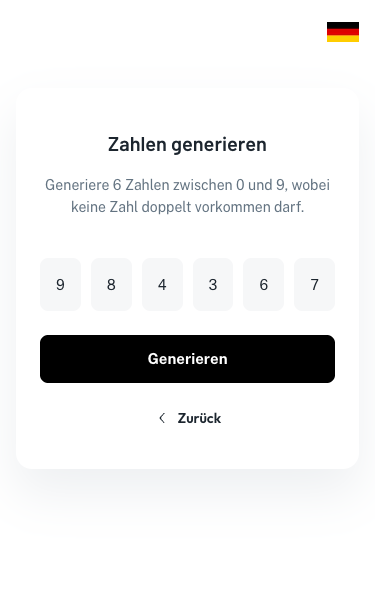
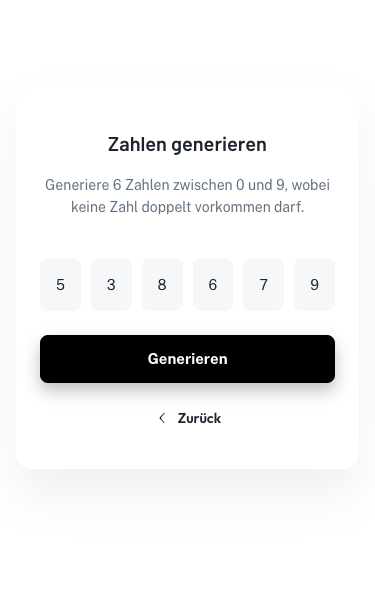
refactor: remove unused components and clean up header layout

diff --git a/src/components/icons/icons.tsx b/src/components/icons/icons.tsx
@@ -55,26 +55,6 @@ export function EyeIcon(props: IconProps) {
     </Icon>
   );
 }
-
-export function SettingsIcon(props: IconProps) {
-  return (
-    <Icon {...props}>
-      <path
-        transform="translate(1.822 1.25)"
-        fillRule="evenodd"
-        clipRule="evenodd"
-        d="M10.178 7C9.184 7 8.23 7.395 7.527 8.098C6.824 8.802 6.428 9.755 6.428 10.75C6.428 11.745 6.824 12.698 7.527 13.402C8.23 14.105 9.184 14.5 10.178 14.5C11.173 14.5 12.127 14.105 12.83 13.402C13.533 12.698 13.928 11.745 13.928 10.75C13.928 9.755 13.533 8.802 12.83 8.098C12.127 7.395 11.173 7 10.178 7ZM7.928 10.75C7.928 10.153 8.166 9.581 8.587 9.159C9.009 8.737 9.582 8.5 10.178 8.5C10.775 8.5 11.348 8.737 11.769 9.159C12.191 9.581 12.428 10.153 12.428 10.75C12.428 11.347 12.191 11.919 11.769 12.341C11.348 12.763 10.775 13 10.178 13C9.582 13 9.009 12.763 8.587 12.341C8.166 11.919 7.928 11.347 7.928 10.75Z"
-      />
-      <path
-        transform="translate(1.822 1.25)"
-        fillRule="evenodd"
-        clipRule="evenodd"
-        d="M10.153 0C9.708 0 9.337 0 9.033 0.02C8.723 0.033 8.416 0.097 8.126 0.21C7.793 0.348 7.489 0.551 7.234 0.806C6.978 1.061 6.776 1.364 6.637 1.698C6.492 2.048 6.453 2.418 6.437 2.82C6.436 2.967 6.397 3.111 6.324 3.239C6.252 3.367 6.148 3.474 6.022 3.551C5.893 3.622 5.748 3.658 5.601 3.657C5.454 3.656 5.31 3.618 5.181 3.546C4.825 3.358 4.485 3.207 4.109 3.157C3.751 3.11 3.388 3.134 3.039 3.227C2.69 3.321 2.363 3.482 2.076 3.702C1.834 3.897 1.626 4.13 1.459 4.393C1.289 4.647 1.103 4.968 0.881 5.353L0.856 5.397C0.633 5.782 0.448 6.103 0.314 6.377C0.174 6.663 0.064 6.945 0.024 7.257C-0.071 7.98 0.125 8.711 0.568 9.29C0.799 9.591 1.1 9.81 1.44 10.024C1.567 10.099 1.673 10.205 1.747 10.332C1.822 10.459 1.863 10.603 1.866 10.75C1.863 10.897 1.822 11.041 1.747 11.168C1.673 11.295 1.567 11.401 1.44 11.476C1.1 11.69 0.8 11.909 0.568 12.21C0.349 12.496 0.187 12.823 0.094 13.172C0 13.521 -0.024 13.885 0.023 14.243C0.064 14.555 0.173 14.837 0.313 15.123C0.448 15.397 0.633 15.718 0.856 16.103L0.881 16.147C1.103 16.532 1.289 16.853 1.459 17.107C1.636 17.37 1.826 17.607 2.076 17.797C2.363 18.017 2.69 18.179 3.039 18.272C3.388 18.366 3.751 18.39 4.109 18.343C4.485 18.293 4.825 18.143 5.181 17.954C5.31 17.882 5.454 17.844 5.601 17.843C5.748 17.842 5.893 17.879 6.021 17.949C6.148 18.025 6.252 18.132 6.325 18.26C6.398 18.388 6.437 18.533 6.438 18.68C6.453 19.082 6.492 19.452 6.638 19.802C6.777 20.136 6.979 20.439 7.234 20.695C7.49 20.95 7.793 21.153 8.126 21.291C8.416 21.411 8.716 21.458 9.033 21.479C9.337 21.5 9.708 21.5 10.153 21.5L10.203 21.5C10.648 21.5 11.019 21.5 11.323 21.48C11.641 21.458 11.94 21.411 12.23 21.29C12.564 21.152 12.868 20.949 13.123 20.694C13.378 20.439 13.581 20.136 13.719 19.802C13.864 19.452 13.903 19.082 13.919 18.68C13.921 18.533 13.96 18.388 14.032 18.26C14.105 18.132 14.209 18.025 14.334 17.948C14.464 17.878 14.609 17.841 14.756 17.842C14.903 17.843 15.047 17.882 15.175 17.954C15.531 18.142 15.871 18.293 16.247 18.342C16.97 18.437 17.702 18.242 18.28 17.798C18.53 17.606 18.72 17.37 18.897 17.107C19.067 16.853 19.253 16.532 19.475 16.147L19.5 16.103C19.723 15.718 19.908 15.397 20.042 15.123C20.182 14.837 20.292 14.554 20.332 14.243C20.428 13.52 20.232 12.789 19.788 12.21C19.557 11.909 19.256 11.69 18.916 11.476C18.79 11.401 18.684 11.295 18.61 11.168C18.535 11.041 18.494 10.897 18.49 10.75C18.49 10.472 18.642 10.196 18.916 10.024C19.256 9.81 19.556 9.591 19.788 9.29C20.008 9.004 20.17 8.677 20.263 8.328C20.357 7.979 20.381 7.615 20.333 7.257C20.286 6.95 20.188 6.652 20.043 6.377C19.873 6.045 19.692 5.718 19.5 5.397L19.475 5.353C19.293 5.027 19.1 4.707 18.897 4.393C18.731 4.131 18.523 3.897 18.28 3.703C17.994 3.483 17.667 3.321 17.318 3.228C16.969 3.134 16.606 3.11 16.247 3.157C15.871 3.207 15.531 3.357 15.175 3.546C15.047 3.618 14.903 3.656 14.756 3.657C14.609 3.658 14.464 3.621 14.335 3.551C14.21 3.475 14.105 3.367 14.032 3.239C13.96 3.112 13.92 2.967 13.918 2.82C13.903 2.418 13.864 2.048 13.718 1.698C13.58 1.364 13.378 1.061 13.123 0.805C12.867 0.55 12.564 0.347 12.23 0.209C11.94 0.089 11.64 0.042 11.323 0.021C11.019 0 10.648 0 10.203 0L10.153 0ZM8.7 1.595C8.777 1.563 8.894 1.534 9.135 1.517C9.382 1.5 9.702 1.5 10.178 1.5C10.654 1.5 10.974 1.5 11.221 1.517C11.462 1.534 11.579 1.563 11.656 1.595C11.963 1.722 12.206 1.965 12.333 2.272C12.373 2.368 12.406 2.519 12.419 2.876C12.449 3.668 12.858 4.431 13.584 4.85C14.31 5.27 15.175 5.242 15.876 4.872C16.192 4.705 16.339 4.658 16.443 4.645C16.772 4.602 17.104 4.69 17.367 4.892C17.433 4.943 17.517 5.03 17.652 5.23C17.791 5.436 17.951 5.713 18.189 6.125C18.427 6.537 18.586 6.815 18.695 7.037C18.802 7.254 18.835 7.37 18.845 7.453C18.889 7.782 18.8 8.114 18.598 8.377C18.534 8.46 18.42 8.564 18.118 8.754C17.446 9.176 16.99 9.912 16.99 10.75C16.99 11.588 17.446 12.324 18.118 12.746C18.42 12.936 18.534 13.04 18.598 13.123C18.8 13.386 18.888 13.718 18.845 14.047C18.835 14.13 18.801 14.247 18.695 14.463C18.586 14.686 18.427 14.963 18.189 15.375C17.951 15.787 17.79 16.064 17.652 16.27C17.517 16.47 17.433 16.557 17.367 16.608C17.104 16.81 16.772 16.898 16.443 16.855C16.339 16.842 16.193 16.795 15.876 16.628C15.176 16.258 14.31 16.23 13.584 16.649C12.858 17.069 12.449 17.832 12.419 18.624C12.406 18.981 12.373 19.132 12.333 19.228C12.271 19.38 12.179 19.518 12.062 19.634C11.946 19.75 11.808 19.842 11.656 19.905C11.579 19.937 11.462 19.966 11.221 19.983C10.974 20 10.654 20 10.178 20C9.702 20 9.382 20 9.135 19.983C8.894 19.966 8.777 19.937 8.7 19.905C8.549 19.842 8.411 19.75 8.295 19.634C8.178 19.518 8.086 19.38 8.023 19.228C7.983 19.132 7.95 18.981 7.937 18.624C7.907 17.832 7.498 17.069 6.772 16.65C6.046 16.23 5.181 16.258 4.48 16.628C4.164 16.795 4.017 16.842 3.913 16.855C3.585 16.898 3.253 16.81 2.989 16.608C2.923 16.557 2.839 16.47 2.704 16.27C2.516 15.977 2.337 15.679 2.167 15.375C1.929 14.963 1.77 14.685 1.661 14.463C1.554 14.246 1.521 14.13 1.511 14.047C1.468 13.718 1.557 13.386 1.758 13.123C1.822 13.04 1.936 12.936 2.238 12.746C2.91 12.324 3.366 11.588 3.366 10.75C3.366 9.912 2.91 9.176 2.238 8.754C1.936 8.564 1.822 8.46 1.758 8.377C1.557 8.114 1.468 7.782 1.511 7.453C1.521 7.37 1.555 7.253 1.661 7.037C1.77 6.814 1.929 6.537 2.167 6.125C2.405 5.713 2.566 5.436 2.704 5.23C2.839 5.03 2.923 4.943 2.989 4.892C3.253 4.69 3.585 4.602 3.913 4.645C4.017 4.658 4.163 4.705 4.48 4.872C5.18 5.242 6.046 5.27 6.772 4.85C7.498 4.431 7.907 3.668 7.937 2.876C7.95 2.519 7.983 2.368 8.023 2.272C8.15 1.965 8.393 1.722 8.7 1.595Z"
-      />
-    </Icon>
-  );
-}
-
 export function ArrowLeftIcon(props: IconProps) {
   return (
     <Icon {...props}>

diff --git a/e2e/figma-layout.spec.ts b/e2e/figma-layout.spec.ts
@@ -45,8 +45,6 @@ const screens: {
       { name: "eye button", locate: (p) => p.getByRole("button", { name: "Show password" }), expected: { x: 850, y: 522.5, width: 40, height: 40 } },
       { name: "generate numbers row", locate: (p) => p.getByRole("link", { name: "Generate numbers" }).locator(".."), expected: { x: 550, y: 593, width: 340, height: 22 } },
       { name: "sign in button", locate: (p) => p.getByRole("button", { name: "Sign in" }), expected: { x: 550, y: 639, width: 340, height: 48 } },
-      { name: "flag button", locate: (p) => p.getByRole("button", { name: "Language: English" }), expected: { x: 1376, y: 16, width: 40, height: 40 } },
-      { name: "flag image", locate: (p) => p.locator("header img"), expected: { x: 1382.17, y: 26, width: 27.65, height: 20 } },
     ],
   },
   {
@@ -62,8 +60,6 @@ const screens: {
       { name: "last digit box", locate: (p) => p.getByTestId("digit-box").last(), expected: { x: 841.67, y: 494.5, width: 48.33, height: 53 } },
       { name: "generate button", locate: (p) => p.getByRole("button", { name: "Generieren" }), expected: { x: 550, y: 571.5, width: 340, height: 48 } },
       { name: "back link", locate: (p) => p.getByRole("link", { name: "Zurück" }), expected: { x: 684.5, y: 643.5, width: 71, height: 22 }, outfit: true },
-      { name: "flag", locate: (p) => p.getByRole("img", { name: "Deutsch" }), expected: { x: 1334, y: 26, width: 34, height: 20 } },
-      { name: "settings button", locate: (p) => p.getByRole("button", { name: "Einstellungen" }), expected: { x: 1376, y: 16, width: 40, height: 40 } },
     ],
   },
   {
@@ -72,7 +68,6 @@ const screens: {
     viewport: { width: 375, height: 800 },
     checks: [
       { name: "header", locate: (p) => p.locator("header"), expected: { x: 0, y: 0, width: 375, height: 64 } },
-      { name: "flag button", locate: (p) => p.getByRole("button", { name: "Language: English" }), expected: { x: 319, y: 12, width: 40, height: 40 } },
       { name: "card", locate: (p) => p.locator("section"), expected: { x: 16, y: 88, width: 343, height: 424 } },
       { name: "heading", locate: (p) => p.getByRole("heading"), expected: { x: 158, y: 128, width: 59, height: 30 }, textTolerance: true },
       { name: "subline", locate: (p) => p.getByText("Don't have an account?").locator(".."), expected: { x: 72.5, y: 170, width: 230, height: 22 }, outfit: true },
@@ -88,7 +83,6 @@ const screens: {
     viewport: { width: 375, height: 589 },
     checks: [
       { name: "header", locate: (p) => p.locator("header"), expected: { x: 0, y: 0, width: 375, height: 64 } },
-      { name: "flag", locate: (p) => p.getByRole("img", { name: "Deutsch" }), expected: { x: 327, y: 22, width: 32, height: 20 } },
       { name: "card", locate: (p) => p.locator("section"), expected: { x: 16, y: 88, width: 343, height: 381 } },
       { name: "heading", locate: (p) => p.getByRole("heading"), expected: { x: 108, y: 128, width: 159, height: 30 }, textTolerance: true },
       { name: "description", locate: (p) => p.getByText(/^Generiere 6 Zahlen/), expected: { x: 40, y: 174, width: 295, height: 44 } },
@@ -126,11 +120,10 @@ for (const screen of screens) {
 }
 
 test.describe("Screen-specific details", () => {
-  test("mobile number generator has no background image and hides the settings button", async ({ page }) => {
+  test("mobile number generator has no background image and no header actions", async ({ page }) => {
     await page.setViewportSize({ width: 375, height: 589 });
     await page.goto("/number-generator");
 
-    await expect(page.getByRole("button", { name: "Einstellungen" })).toBeHidden();
     const backgroundDisplay = await page
       .locator("[aria-hidden='true']")
       .first()

diff --git a/src/app/number-generator/page.tsx b/src/app/number-generator/page.tsx
@@ -1,12 +1,7 @@
 import type { Metadata } from "next";
 
 import { AuthLayout } from "@/components/AuthLayout/AuthLayout";
-import { Flag } from "@/components/Flag/Flag";
-import { IconButton } from "@/components/IconButton/IconButton";
-import { SettingsIcon } from "@/components/icons/icons";
 import { NumberGenerator } from "@/features/number-generator/NumberGenerator";
-
-import styles from "./page.module.css";
 
 export const metadata: Metadata = {
   title: "Zahlen generieren",
@@ -14,19 +9,7 @@ export const metadata: Metadata = {
 
 export default function NumberGeneratorPage() {
   return (
-    <AuthLayout
-      showBackgroundOnMobile={false}
-      headerActions={
-        <>
-          <Flag locale="de" className={styles.flag} />
-          <span className={styles.settings}>
-            <IconButton color="inherit" aria-label="Einstellungen">
-              <SettingsIcon />
-            </IconButton>
-          </span>
-        </>
-      }
-    >
+    <AuthLayout showBackgroundOnMobile={false}>
       <NumberGenerator />
     </AuthLayout>
   );

diff --git a/src/components/Header/Header.tsx b/src/components/Header/Header.tsx
@@ -1,17 +1,11 @@
-import type { ReactNode } from "react";
-
 import styles from "./Header.module.css";
 
 /*
- * The Figma header also contains a "Logo" instance on the left. Its main
- * component is empty (no layers, no fill), so it renders nothing in Figma and
- * is left out here. The actions are right-aligned, so the logo slot has no
- * influence on the layout.
+ * The Figma header contains a "Logo" instance on the left and a language flag
+ * and settings button on the right. The Logo's main component is empty (no
+ * layers, no fill) and the flag and settings had no function, so the header is
+ * kept only for its height and spacing.
  */
-export function Header({ children }: { children: ReactNode }) {
-  return (
-    <header className={styles.header}>
-      <div className={styles.actions}>{children}</div>
-    </header>
-  );
+export function Header() {
+  return <header className={styles.header} />;
 }

diff --git a/src/components/AuthLayout/AuthLayout.tsx b/src/components/AuthLayout/AuthLayout.tsx
@@ -6,8 +6,6 @@ import { Header } from "@/components/Header/Header";
 import styles from "./AuthLayout.module.css";
 
 type AuthLayoutProps = {
-  /** Right-hand side of the top bar (flag, settings, …). */
-  headerActions: ReactNode;
   /**
    * The mobile "Verify" frame in Figma has a plain white page without the
    * blurred background image, the mobile sign-in frame has it. This flag
@@ -18,14 +16,13 @@ type AuthLayoutProps = {
 };
 
 export function AuthLayout({
-  headerActions,
   showBackgroundOnMobile = true,
   children,
 }: AuthLayoutProps) {
   return (
     <div className={styles.page}>
       <Background className={showBackgroundOnMobile ? undefined : styles.desktopOnly} />
-      <Header>{headerActions}</Header>
+      <Header />
       <main className={styles.main}>{children}</main>
     </div>
   );

diff --git a/src/app/page.tsx b/src/app/page.tsx
@@ -1,11 +1,7 @@
 import type { Metadata } from "next";
 
 import { AuthLayout } from "@/components/AuthLayout/AuthLayout";
-import { Flag } from "@/components/Flag/Flag";
-import { IconButton } from "@/components/IconButton/IconButton";
 import { SignInForm } from "@/features/sign-in/SignInForm";
-
-import styles from "./page.module.css";
 
 export const metadata: Metadata = {
   title: "Sign in",
@@ -13,13 +9,7 @@ export const metadata: Metadata = {
 
 export default function SignInPage() {
   return (
-    <AuthLayout
-      headerActions={
-        <IconButton aria-label="Language: English">
-          <Flag locale="en" className={styles.flag} decorative />
-        </IconButton>
-      }
-    >
+    <AuthLayout>
       <SignInForm />
     </AuthLayout>
   );

diff --git a/src/components/Header/Header.module.css b/src/components/Header/Header.module.css
@@ -8,14 +8,6 @@
   padding: 0 var(--header-padding-x);
 }
 
-.actions {
-  display: flex;
-  flex: 1;
-  align-items: center;
-  justify-content: flex-end;
-  gap: 8px;
-}
-
 @media (max-width: 599.98px) {
   .header {
     position: static;

diff --git a/README.md b/README.md
@@ -65,11 +65,11 @@ src/
 ├── components/                           Shared by both screens, no business logic
 │   ├── AuthLayout/                       Page shell: background, header, centred content
 │   ├── Background/                       Blurred photo + 90 % white overlay
-│   ├── Header/                           Top bar with right-aligned actions
+│   ├── Header/                           Empty top bar (keeps the Figma height and spacing)
 │   ├── Card/                             White card (radius 16, shadow)
 │   ├── Heading/                          Page title (h4 style, responsive)
 │   ├── Button/                           Black primary button (Contained / Primary / L)
-│   ├── IconButton/                       40 × 40 round button (flag, settings, eye)
+│   ├── IconButton/                       40 × 40 round button (eye)
 │   ├── TextField/                        Filled text field (label + input + end adornment)
 │   ├── PasswordField/                    TextField + eye button (client component)
 │   ├── Flag/                             Flag image (next/image)
@@ -87,7 +87,7 @@ src/
 e2e/figma-layout.spec.ts                  Playwright: 38 element boxes compared with Figma
 tools/fig-inspect/                        Script that reads the .fig file (how the values were taken)
 docs/screenshots/                         Screenshots used in this README
-public/images/                            Background photo and the two flags from the Figma file
+public/images/                            Background photo from the Figma file
 AGENTS.md, CLAUDE.md                      Generated by create-next-app, notes for AI coding agents
 ```
 
@@ -164,8 +164,8 @@ The three fonts are loaded with `next/font/google` in [`layout.tsx`](src/app/lay
 
 ### 3.5 Icons and images
 
-- **Icons** (eye closed, eye open, settings, arrow left) come from the Solar set used in the file. The SVG paths were **exported from the Figma vectors** (see 3.1), including their offset inside the 24 × 24 frame. Each icon is a small React component with `fill="currentColor"`, so its colour comes from CSS: `action/active` for the eye, `text/primary` for settings and the arrow. The arrow is rendered at 16 px, like in Figma.
-- **Flags** are the original PNGs from the zip, rendered with `next/image` and `object-fit: cover`, which matches Figma's *Fill* mode. Sizes follow each frame: 27.65 × 20 inside the icon button on Sign In, 34 × 20 (desktop) and 32 × 20 (mobile) on the generator.
+- **Icons** (eye closed, eye open, arrow left) come from the Solar set used in the file. The SVG paths were **exported from the Figma vectors** (see 3.1), including their offset inside the 24 × 24 frame. Each icon is a small React component with `fill="currentColor"`, so its colour comes from CSS: `action/active` for the eye, `text/primary` for the arrow. The arrow is rendered at 16 px, like in Figma.
+- **Flags and settings:** the Figma header has a language flag on both screens and a settings button on the generator. None of them had a function, so they were left out and the header is empty. It still keeps its Figma height and padding, so the card position is unchanged.
 
 ### 3.6 Desktop and mobile layout
 
@@ -177,7 +177,6 @@ Figma has exactly two sizes: 1440 px and 375 px. I use **one breakpoint at 600 p
 | Card position | Centred horizontally **and** vertically in the viewport | 24 px below the header, 16 px side gutters, 120 px bottom padding |
 | Card | 420 px wide, 40 px padding | Full width (343 px at 375), 40 px top/bottom, 24 px left/right |
 | Heading | 24/36 | 20/30 |
-| Generator header | Flag 34 × 20 + settings button | Flag 32 × 20, no settings button |
 | Generator background | Blurred photo | Plain white (as in the `[MOBILE] Verify` frame) |
 
 Inside the card, the Figma auto layouts map directly to flexbox (`gap`, `padding`, `align-items`). On desktop, `main` has the same padding at the top and bottom (`header height + 24 px`). The card therefore stays exactly centred, as in Figma, but can never slide under the header on short screens like 1366 × 768.
@@ -188,14 +187,14 @@ Checked sizes: 320 × 568, 375 × 800, 768 × 1024, 1366 × 768, 1440 × 1024 an
 
 Both screens are built from the same parts, just as they share components in Figma:
 
-- `AuthLayout` = `Background` + `Header` + centred `main`. It is used by both routes; the header content is passed in (`headerActions`).
+- `AuthLayout` = `Background` + `Header` + centred `main`. It is used by both routes.
 - `Card`, `Heading`, `Button`, `IconButton` are shared by both cards.
 - `TextField` renders both fields; `PasswordField` adds the eye button to it.
 - The digit boxes use the same `grey-8` background and 8 px radius as the text fields, via the same tokens.
 
 ### 3.8 Comparing the result with Figma
 
-1. **Automated layout check** – [`e2e/figma-layout.spec.ts`](e2e/figma-layout.spec.ts) opens every screen at the exact Figma frame size and measures **38 elements** (card, heading, fields, buttons, digit boxes, flags, icon buttons …). Each box's x, y, width and height is compared with the absolute position of the matching Figma layer, as read by the script. Layout boxes must match within **1 px**; text-sized boxes within 2.5 px, because the browser rasterises fonts slightly differently from Figma. A second test checks the computed colours, shadow and radius.
+1. **Automated layout check** – [`e2e/figma-layout.spec.ts`](e2e/figma-layout.spec.ts) opens every screen at the exact Figma frame size and measures **32 elements** (card, heading, fields, buttons, digit boxes, icon buttons …). Each box's x, y, width and height is compared with the absolute position of the matching Figma layer, as read by the script. Layout boxes must match within **1 px**; text-sized boxes within 2.5 px, because the browser rasterises fonts slightly differently from Figma. A second test checks the computed colours, shadow and radius.
 2. **Screenshots** at the frame sizes (`docs/screenshots/`), compared side by side with the frames in Figma.
 3. **Manual check** of hover and focus states and of the in-between sizes listed above.
 
@@ -215,8 +214,8 @@ Figma is the source of truth. Where the file has quirks, I followed what Figma a
 | **The brief mentions a "dotted separator line" in the top bar, but the Figma file has none.** I checked every layer of all four frames: none has a stroke, line or dash pattern. The only dashed lines in the file are Figma's purple (#8C4BF6, 5/5 dash) borders around the component sets on the *Setups* page. Those are documentation on the canvas, not part of a screen. | Not added. The brief says everything must match Figma with no deviations, so I did not invent a line. If a separator is wanted, it is a one-line `border-bottom` on `Header` and I'm happy to add it. |
 | Some colours cached inside component instances are outdated. Example: the placeholder is stored as `#212B36`, but its variable `text/disabled` is `#919EAB`; the eye icon is stored as white, but its variable `action/active` is `#637381`. Figma renders the variable. | Used the variable values, i.e. what Figma displays. |
 | The digit component shows `2 2 2 2 2 -`: five "2"s in `text/primary` and one "-" in `text/disabled`. | Read as the two states of a box. Empty state = "-" in `#919EAB` in all six boxes; generated digits use the "2" style (`#1C252E`). |
-| The `Logo` component on the left of the header is empty: no layers and no fill. | Renders nothing in Figma, so nothing is rendered here. The actions are right-aligned, so the empty slot does not affect the layout. |
-| The mobile generator frame has **no background image** and hides the settings button; the mobile sign-in frame has the background. | Implemented exactly like that (`showBackgroundOnMobile={false}`). |
+| The `Logo` component on the left of the header is empty: no layers and no fill. | Renders nothing in Figma, so nothing is rendered here. The header has no other content, so the empty slot does not affect the layout. |
+| The mobile generator frame has **no background image**; the mobile sign-in frame has the background. | Implemented exactly like that (`showBackgroundOnMobile={false}`). |
 | On mobile sign-in, the background layer is 790 px high inside an 800 px frame (a 10 px white strip at the bottom). | The background covers the whole viewport, because with real screen heights a fixed 790 px strip makes no sense. |
 | The Outfit texts ("Get started", "Zurück") have text boxes that are ~4 % wider than Outfit renders. Figma's stored glyph positions match **Public Sans SemiBold** exactly, i.e. the kit's original link font before it was switched to Outfit. | Kept Outfit SemiBold, which is what the layer, the inspect panel and the canvas show. The layout test allows 4 px for these two texts and explains why. |
 | The kit's "Hovered" button variant has a **green** shadow (`#00AB55` at 24 %), a leftover from the kit's default green theme. It is not bound to any variable. | Hover uses the same shadow geometry (0 8 16) in the file's primary colour (black at 24 %), see section 5. |
@@ -317,7 +316,6 @@ None of these change what is visible in Figma. The default state of every screen
 | **Next.js 16 (App Router) + TypeScript** | Required by the brief. Both pages are statically pre-rendered; only the two interactive parts (password field, generator) are client components. |
 | **CSS Modules + CSS custom properties** | Built into Next.js, no runtime cost. The Figma values can be written 1:1 (`height: 53px`, `gap: 24px`) and the variables mirror the Figma tokens. |
 | **next/font** | Self-hosted Google Fonts without layout shift (see 3.4). |
-| **next/image** | Optimised flag images. |
 | **Vitest + Testing Library** | Fast unit and component tests, same TypeScript config as the app. |
 | **Playwright** | Measures the real rendering in Chrome against the Figma coordinates. |
 
@@ -359,7 +357,7 @@ What I would do with more time:
 - **Pixel diff against Figma exports.** Export the four frames as PNG via the Figma API and compare them pixel by pixel with the screenshots in CI. The current test compares geometry and colours, not pixels.
 - **Clarify the "dotted separator line"** from the brief with the design team (see 3.9) and add it if it is wanted.
 - **Dark mode:** the file already has a *Dark* mode for the `Theme` variables, so the CSS variables could switch with `prefers-color-scheme`.
-- **Internationalisation:** the flag suggests a language switch, and the texts are currently mixed EN/DE exactly as in Figma. A small i18n layer (e.g. `next-intl`) would make the flag work.
+- **Internationalisation:** the texts are currently mixed EN/DE exactly as in Figma. A small i18n layer (e.g. `next-intl`) plus a language switch (the flag from the Figma header) would make this consistent.
 - **Tablet layouts:** Figma only defines 375 and 1440 px. Sizes in between currently use the desktop layout; a designer should confirm this.
 - **Logo:** the Logo component in the file is empty. As soon as there is a real logo, it goes into the reserved slot on the left of the header.
 - **Performance:** serve the background as AVIF/WebP, or pre-blurred, to save the live blur on low-end devices.
